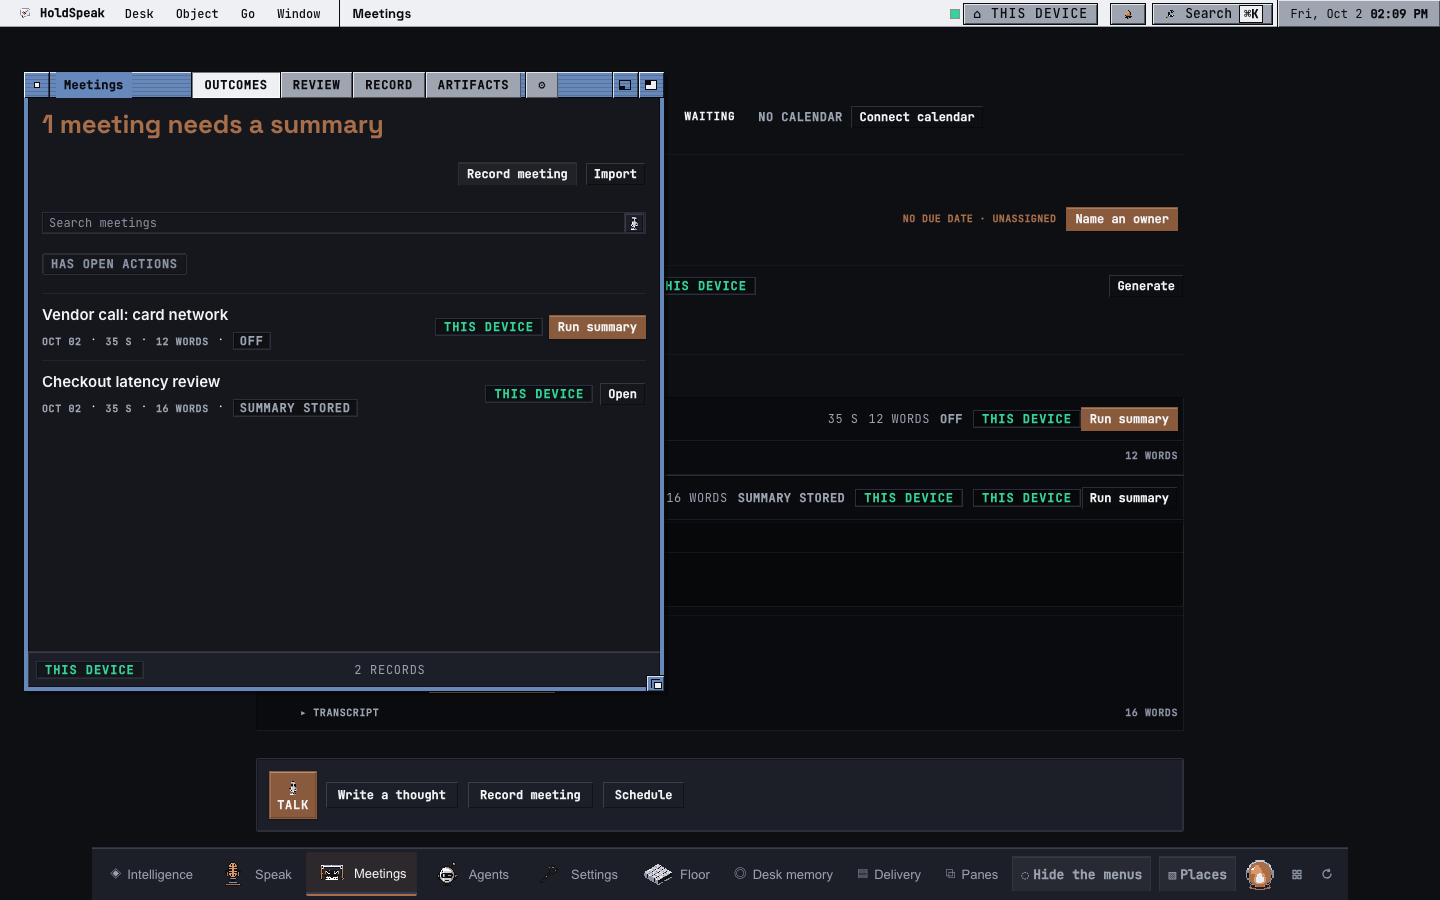
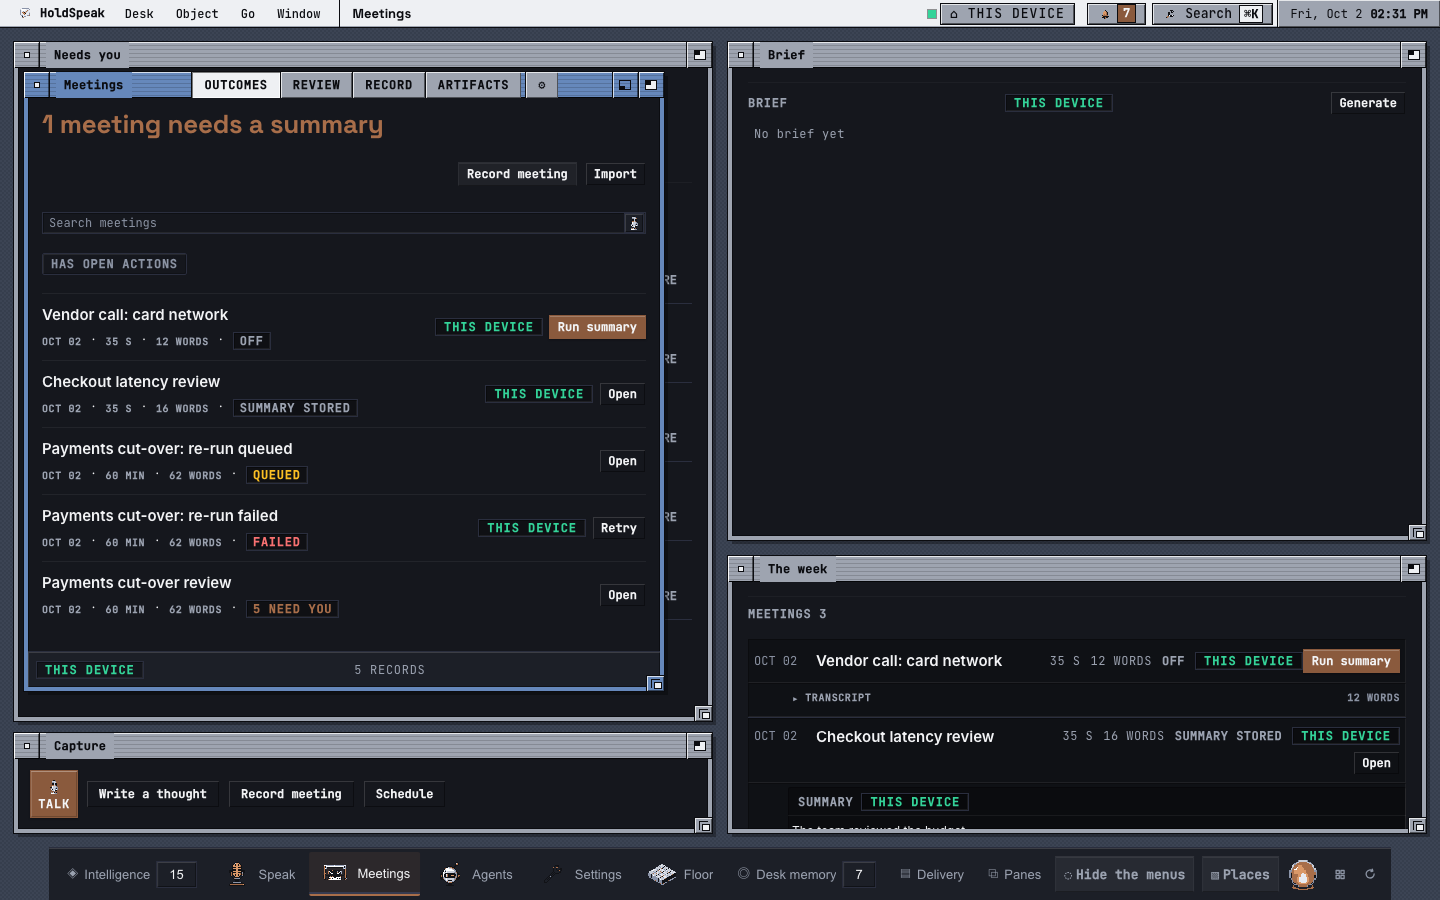
fix(philo-13-04): Astra counsel r1 on #730 — process state leads the rail; a needs-you count never covers a failing or running summary
Precedence (Muad'Dib's ruling): capture states → FAILED (Retry) →
RUNNING / QUEUED → NEEDS YOU → SUMMARY STORED → the rest. The count
override in CatalogRail skips PROCESS_LEADS. Fenced in vitest with
needs_you_count (red 2/9 on a139ad13 → green 9/9) and in glass through the
real producer (real decision/action plugins mint 5 proposals; a re-run
fails for real; the list route read first) at 1440 and touch 393: red
'5 NEED YOU' ≠ 'FAILED' → green. An OFF meeting with proposals now reads
N NEED YOU (true). RUNNING fenced in vitest only (no stable live run in
glass).

PMO-Story: PHILO-13-04
PMO-Contract-Digest: sha256:ba70ae010cb3938e12152a1e094ae36e189684260fd94f11a3953cf762ce872a

diff --git a/web/src/pages/cores/history/__tests__/railSummaryStored.philo13.test.tsx b/web/src/pages/cores/history/__tests__/railSummaryStored.philo13.test.tsx
@@ -10,8 +10,9 @@ import { describe, expect, it, vi } from "vitest";
 import { CatalogRail } from "../CatalogRail";
 import { meetingRowState, meetingsHeadline, stateToken } from "../helpers";
 
-function row(id: string, intel_status: unknown, has_summary: boolean) {
+function row(id: string, intel_status: unknown, has_summary: boolean, needs_you_count = 0) {
   return {
+    needs_you_count,
     id,
     title: `Meeting ${id}`,
     started_at: "2026-10-01T10:00:00Z",
@@ -85,5 +86,31 @@ describe("PHILO-13-04 A3-W — the rail names a stored summary", () => {
   it("does not count a stored summary as one that needs a summary", () => {
     const rows = [row("stored", "disabled", true), row("none", "disabled", false)];
     expect(meetingsHeadline(rows, false).text).toBe("1 meeting needs a summary");
+  });
+
+  // Muad'Dib's ruling on Astra's #730 finding 3: capture → FAILED (Retry) →
+  // RUNNING / QUEUED → NEEDS YOU → SUMMARY STORED → the rest. The rows carry
+  // the producer's `needs_you_count` (one proposed outcome).
+  it("never lets a NEEDS YOU count cover a failed or active run", () => {
+    rail([
+      row("err", "error", true, 1),
+      row("run", "running", true, 1),
+      row("que", "queued", true, 1),
+      row("dis", "disabled", true, 1),
+      row("rdy", "ready", true, 1),
+      row("non", "ready", true, 0),
+    ]);
+    expect(token("err")).toBe("FAILED");
+    expect(token("run")).toBe("RUNNING");
+    expect(token("que")).toBe("QUEUED");
+    expect(token("dis")).toBe("1 NEEDS YOU");
+    expect(token("rdy")).toBe("1 NEEDS YOU");
+    expect(token("non")).toBe("SUMMARY STORED");
+  });
+
+  it("never lets a NEEDS YOU count cover a capture state", () => {
+    const rec = { ...row("rec", "disabled", false, 2), capture_status: "capture_failed" };
+    rail([rec]);
+    expect(token("rec")).toBe("CAPTURE FAILED");
   });
 });

diff --git a/web/src/pages/cores/history/CatalogRail.tsx b/web/src/pages/cores/history/CatalogRail.tsx
@@ -52,6 +52,13 @@ function leadRunRowId(
   return first ? String(first.id) : null;
 }
 
+/** PHILO-13-04 A3-W — the process states a NEEDS YOU count never covers:
+ *  capture, failure, and an active summary run. */
+const PROCESS_LEADS = new Set([
+  "REC", "INTERRUPTED", "CAPTURE FAILED", "RECOVERABLE",
+  "FAILED", "IMPORT FAILED", "RUNNING", "QUEUED",
+]);
+
 /** Render a list of tokens joined by middle dots (U+00B7).
  *  Dots are sibling flex children for equal spacing on both sides. */
 function TokenLine({ parts }: { parts: ReactNode[] }) {
@@ -95,14 +102,16 @@ function MeetingStreamRow({
   const isRunning = runningId === String(row.id);
   const needsYouCount = Number(row.needs_you_count ?? row.needsYouCount ?? 0);
 
-  // The board: NEEDS YOU N (accent) replaces OFF/SAVED for meetings with outcomes
+  // The board: NEEDS YOU N (accent) for meetings with outcomes.
+  // PHILO-13-04 A3-W (Muad'Dib's ruling on Astra's #730 finding 3): the
+  // process state leads, so a failure is never hidden. Order: capture
+  // states, FAILED (with Retry), RUNNING / QUEUED, then NEEDS YOU, then
+  // SUMMARY STORED, then the rest. A proposed outcome used to draw
+  // "1 NEEDS YOU" over a failed, running or queued summary run.
   const token = stateToken(row);
   let displayLabel = state.label;
   let displayTone = state.tone;
-  if (needsYouCount > 0 && (token.label === "SAVED" || token.label === "RAN")) {
-    displayLabel = countToken(needsYouCount, "NEEDS YOU", "NEED YOU") ?? "";
-    displayTone = "accent";
-  } else if (needsYouCount > 0 && token.label !== "OFF") {
+  if (needsYouCount > 0 && !PROCESS_LEADS.has(token.label)) {
     displayLabel = countToken(needsYouCount, "NEEDS YOU", "NEED YOU") ?? displayLabel;
     displayTone = "accent";
   }

diff --git a/tests/e2e/test_philo13_04_faces_glass.py b/tests/e2e/test_philo13_04_faces_glass.py
@@ -498,7 +498,7 @@ def _mint_through_the_real_producers(tmp_path: Path) -> None:
     import sqlite3
 
     from holdspeak.intel_queue import process_next_intel_job
-    from tests.unit.test_meeting_deferred_admission import _queue_rig
+    from tests.unit.test_phase200_meeting_outcomes import _rig as _outcomes_rig
     from types import SimpleNamespace
 
     from holdspeak.meeting_import import import_meeting
@@ -520,7 +520,10 @@ def _mint_through_the_real_producers(tmp_path: Path) -> None:
     rig = tmp_path / "producer"
     rig.mkdir()
     with pytest.MonkeyPatch.context() as mp:
-        db, *_ = _queue_rig(rig, mp)
+        # The HS-200-12 rig: `_queue_rig` with the REAL plugin host and the
+        # REAL decision/action plugins put back; the one double is the
+        # provider's completion text.
+        db, engine = _outcomes_rig(rig, mp)
         source = rig / "meeting.wav"
         shutil.copyfile(SOURCE, source)
         stored = _import(db, source, A3W_STORED, "Checkout latency review",
@@ -533,6 +536,28 @@ def _mint_through_the_real_producers(tmp_path: Path) -> None:
         assert db.meetings.get_meeting(none.id).intel is None
         with db._connection() as conn:
             conn.execute("UPDATE meetings SET intel_status = 'disabled' WHERE id = ?", (stored.id,))
+
+        # Astra's #730 finding 3: a stored summary WITH proposed outcomes.
+        # Each meeting is saved and enqueued by the stop-handoff producer, and
+        # the real drainer runs the summary, the plugins and the proposal
+        # bridge. Then two get a re-run: the first fails for real (the
+        # provider errors), the second stays queued (this hub has no drainer).
+        for meeting_id, title in OUTCOME_MEETINGS.items():
+            _outcome_meeting(db, meeting_id, title)
+        drained = 0
+        while process_next_intel_job():
+            drained += 1
+        assert drained >= len(OUTCOME_MEETINGS)
+        for meeting_id in (A3W_FAILED, A3W_QUEUED):
+            db.intel.enqueue_intel_job(
+                meeting_id, transcript_hash=db.meetings.get_meeting(meeting_id).transcript_hash(),
+                reason="re-run")
+        engine.error = "provider failed"
+        assert process_next_intel_job(retry_max_attempts=1) is True
+        rows = {m.id: m for m in db.meetings.list_meetings(limit=50)}
+        assert {i: rows[i].intel_status for i in OUTCOME_MEETINGS} == {
+            A3W_OUTCOMES: "ready", A3W_FAILED: "error", A3W_QUEUED: "queued"}
+        assert all(rows[i].has_summary and rows[i].needs_you_count > 0 for i in OUTCOME_MEETINGS)
     src = sqlite3.connect(rig / "queue.db")
     dst = sqlite3.connect(tmp_path / "holdspeak.db")  # _boot's DEFAULT_DB_PATH
     src.backup(dst)
@@ -542,6 +567,34 @@ def _mint_through_the_real_producers(tmp_path: Path) -> None:
 
 A3W_STORED = "a3w-stored"
 A3W_NONE = "a3w-none"
+A3W_OUTCOMES = "a3w-outcomes"
+A3W_FAILED = "a3w-rerun-failed"
+A3W_QUEUED = "a3w-rerun-queued"
+OUTCOME_MEETINGS = {
+    A3W_OUTCOMES: "Payments cut-over review",
+    A3W_FAILED: "Payments cut-over: re-run failed",
+    A3W_QUEUED: "Payments cut-over: re-run queued",
+}
+
+
+def _outcome_meeting(db: Any, meeting_id: str, title: str) -> None:
+    """The HS-200-12 meeting (`test_phase200_meeting_outcomes._meeting`) with
+    its own title: saved, linked to a Project, enqueued at stop handoff."""
+    from holdspeak.meeting_session import MeetingState, TranscriptSegment
+    from tests.unit.test_hs172_loop_wire import _link_meeting_project, _seed_project
+    from tests.unit.test_phase200_meeting_outcomes import SEGMENTS
+
+    state = MeetingState(
+        id=meeting_id, started_at=datetime.now() - timedelta(hours=2),
+        ended_at=datetime.now() - timedelta(hours=1), title=title,
+        segments=[TranscriptSegment(text=text, speaker=speaker, start_time=start, end_time=end)
+                  for start, end, speaker, text in SEGMENTS],
+    )
+    db.meetings.save_meeting(state)
+    _seed_project(db, "prj-cutover")
+    _link_meeting_project(db, meeting_id, "prj-cutover")
+    db.intel.enqueue_intel_job(meeting_id, transcript_hash=state.transcript_hash(),
+                               reason="stop handoff")
 
 
 class TestMeetingsRailNamesStored:
@@ -595,6 +648,56 @@ class TestMeetingsRailNamesStored:
                 assert not stored.get_by_text(re.compile(r"\bOFF\b")).count()
                 assert none.get_by_test_id("state-token").inner_text() == "OFF"
                 assert not none.get_by_text("STORED").count()
+                assert not errors, errors
+            finally:
+                browser.close()
+
+    @pytest.mark.parametrize("width", list(SIZES))
+    def test_a_needs_you_count_never_covers_the_run(self, width: int) -> None:
+        """Muad'Dib's ruling on Astra's #730 finding 3: capture → FAILED (Retry)
+        → RUNNING / QUEUED → NEEDS YOU → SUMMARY STORED → the rest. Three
+        meetings store a summary AND proposed outcomes (real producers); the
+        rail names the failed and the queued re-run, and the count only where
+        no run is live. Red on a139ad13 (all three said `5 NEED YOU`)."""
+        from playwright.sync_api import sync_playwright
+
+        with sync_playwright() as pw:
+            browser = pw.chromium.launch(headless=True, args=["--disable-smooth-scrolling"])
+            ctx = browser.new_context(viewport={"width": width, "height": SIZES[width]},
+                                      device_scale_factor=1, has_touch=width < 720)
+            page = ctx.new_page()
+            page.set_default_timeout(30_000)
+            errors: list[str] = []
+            page.on("pageerror", lambda e: errors.append(str(e)[:200]))
+            try:
+                page.goto(f"{self.base}/?token={TOKEN}", wait_until="load")
+                _api(page, "PUT", "/api/setup/onboarding", {"disposition": "completed"}, token=TOKEN)
+                rows = {r["id"]: r for r in _api(page, "GET", "/api/meetings?limit=20", token=TOKEN)["meetings"]}
+                for meeting_id in OUTCOME_MEETINGS:
+                    assert rows[meeting_id]["has_summary"] is True
+                    assert rows[meeting_id]["needs_you_count"] == 5
+                assert rows[A3W_FAILED]["intel_status"] == "error"
+                assert rows[A3W_QUEUED]["intel_status"] == "queued"
+                page.reload(wait_until="load")
+                _normal_chair(page)
+                page.wait_for_timeout(1500)
+                _settle(page)
+                TestFacesDoNotLie._press(
+                    page, page.locator(".desk-dock-launch[aria-label^='Meetings']"), width)
+                meetings = page.locator(".desk-window[aria-label='Meetings']")
+
+                def token(meeting_id: str) -> str:
+                    row = meetings.get_by_test_id(f"meeting-row-{meeting_id}")
+                    row.wait_for()
+                    return row.get_by_test_id("state-token").inner_text()
+
+                assert token(A3W_FAILED) == "FAILED"
+                # This hub has no drainer, so the queued run says so (HS-200-42).
+                assert token(A3W_QUEUED) in {"QUEUED", "NOT DRAINING"}
+                assert token(A3W_OUTCOMES) == "5 NEED YOU"
+                assert token(A3W_STORED) == "SUMMARY STORED"
+                meetings.get_by_test_id(f"meeting-row-{A3W_FAILED}").scroll_into_view_if_needed()
+                TestFacesDoNotLie._shot(page, "meetings-rail-precedence", width)
                 assert not errors, errors
             finally:
                 browser.close()
